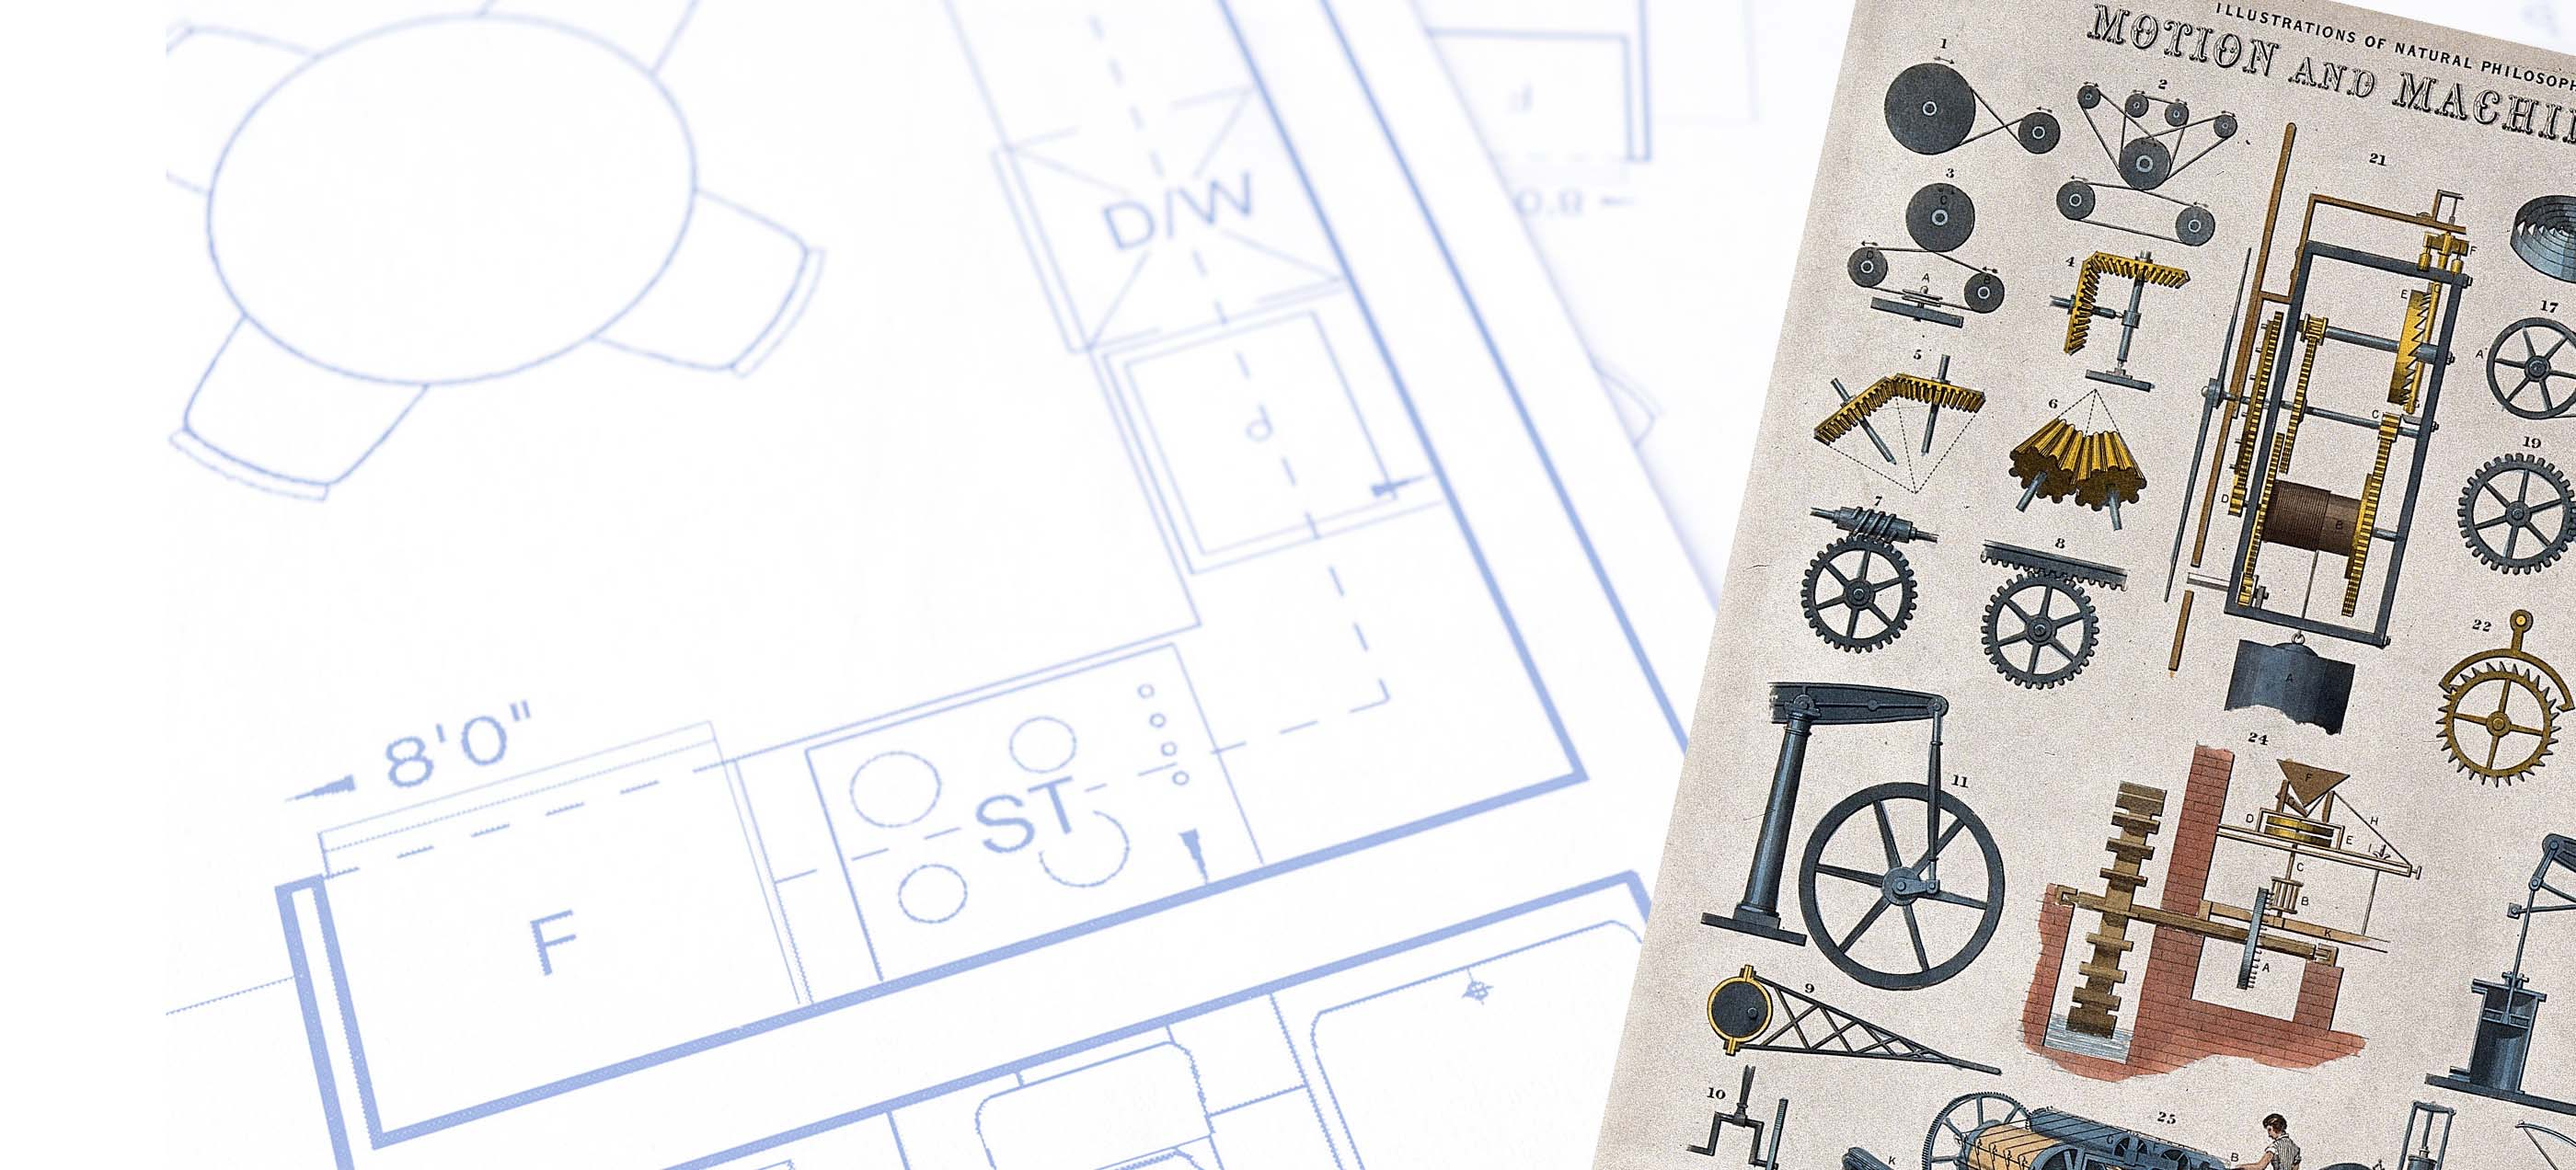
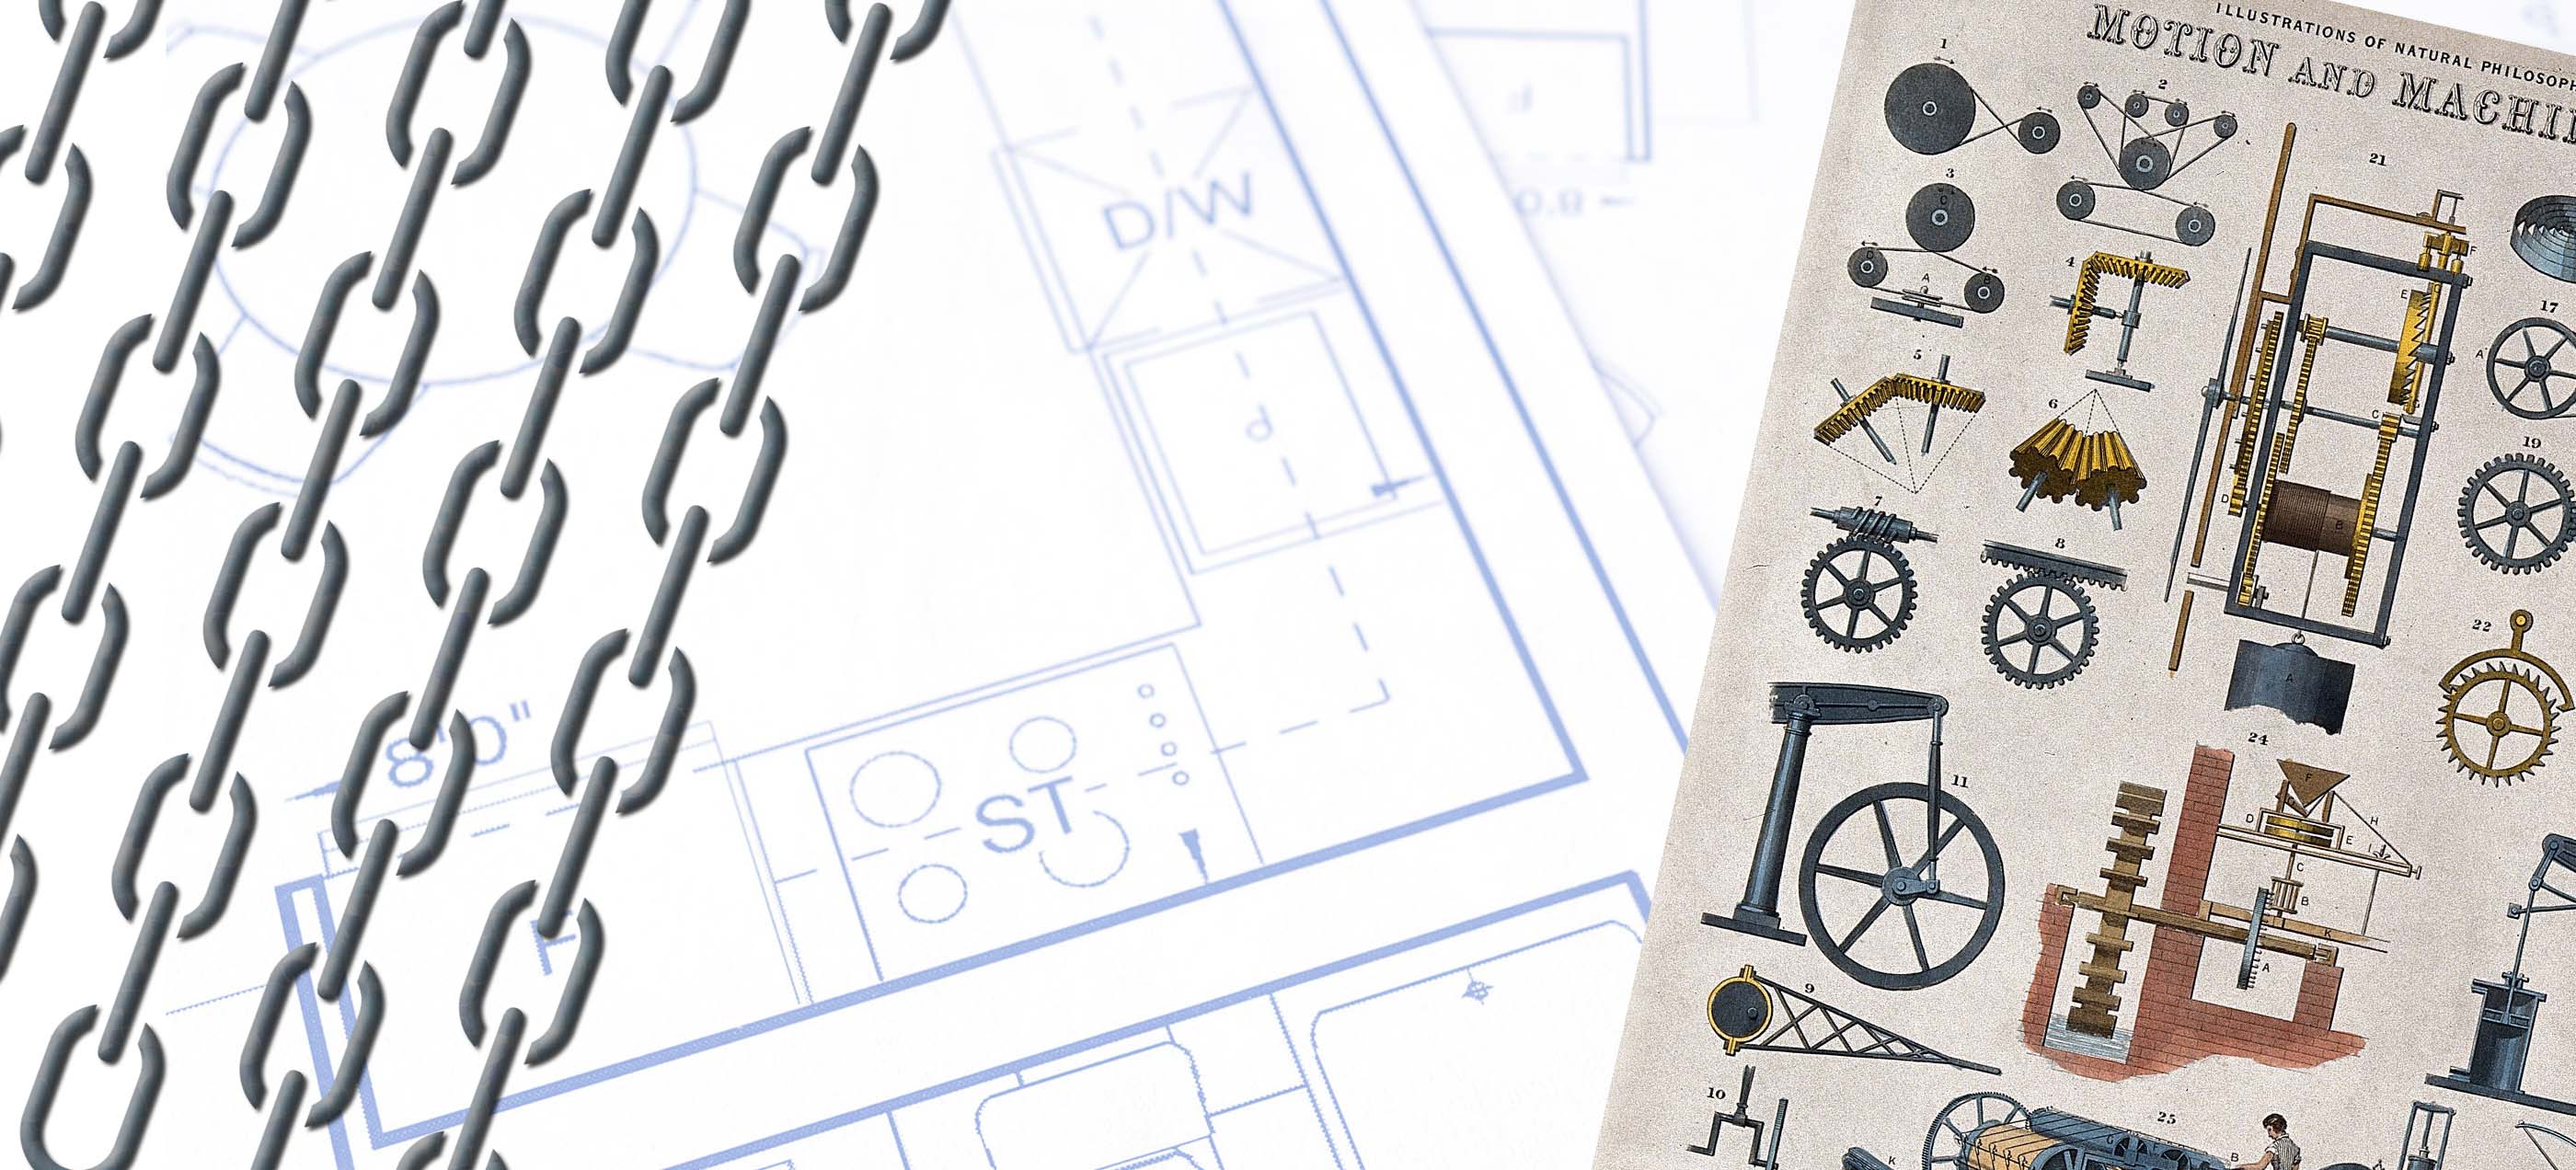
new chain header

Changed region(s): [[0.0, 0.0, 0.3729, 1.0]]

diff --git a/_pages/tech/chains/index.md b/_pages/tech/chains/index.md
@@ -3,7 +3,7 @@ cover: false
 header:
   overlay_color: "#000"
   overlay_filter: "0.25"
-  overlay_image: /assets/images/dev-chain-background.jpg
+  overlay_image: /assets/images/tech-chains.jpg
   og_image: /assets/images/bc-card.jpg
 title: Blockchain Technologies
 tagline: Bringing Our Specifications to Blockchain
